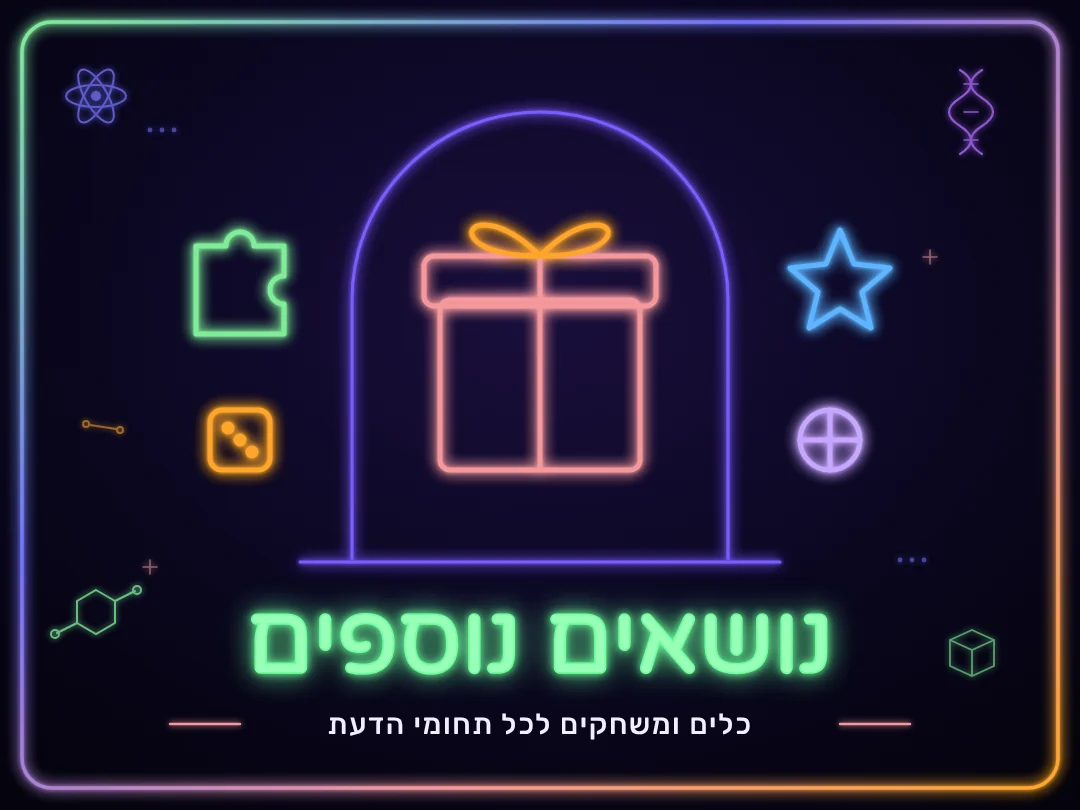
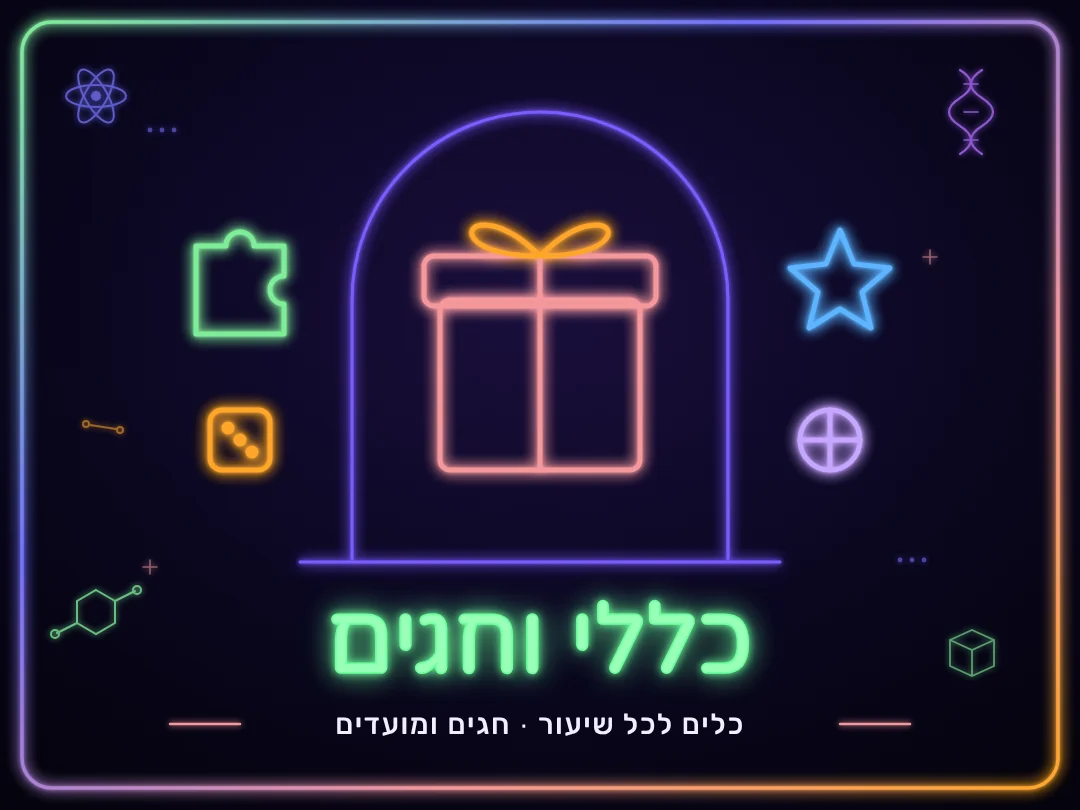
Split more page into holidays and general, add 7 tools; language: add Hanukkah story
Claude-Session: https://claude.ai/code/session_01BjfP7zRyA8853jkZFfmhZH

Changed region(s): [[0.2139, 0.7099, 0.7944, 0.9259]]

diff --git a/more/index.html b/more/index.html
@@ -3,7 +3,7 @@
 <head>
 <meta charset="UTF-8">
 <meta name="viewport" content="width=device-width, initial-scale=1.0">
-<title>נושאים נוספים - נופר גרגרוד</title>
+<title>כללי + חגים ומועדים - נופר גרגרוד</title>
 <link rel="preconnect" href="https://fonts.googleapis.com">
 <link rel="preconnect" href="https://fonts.gstatic.com" crossorigin>
 <link href="https://fonts.googleapis.com/css2?family=Heebo:wght@400;500;700&family=Rubik:wght@300;400;500;600;700&family=Secular+One&display=swap" rel="stylesheet">
@@ -21,10 +21,10 @@
   <!-- ================= HERO ================= -->
   <header class="hero">
     <div class="hero-text">
-      <span class="kicker"><span class="dot"></span>כלים לכל תחומי הדעת</span>
-      <h1>נושאים <span class="grad">נוספים</span></h1>
-      <p class="lead">חדרי בריחה, מחוללי משחקים וכלים כיתתיים שמתאימים לכל מקצוע ולכל רמה.</p>
-      <div class="stats"><div class="stat"><b>6</b><span>כלים ופעילויות</span></div><div class="stat"><b>לכל</b><span>תחומי הדעת</span></div><div class="stat"><b>משחוק</b><span>חדרי בריחה · משחקים</span></div></div>
+      <span class="kicker"><span class="dot"></span>כללי + חגים ומועדים</span>
+      <h1>חגים, מועדים ו<span class="grad">כלים לכל שיעור</span></h1>
+      <p class="lead">פעילויות לחנוכה, לפורים ולט"ו בשבט, לצד חדרי בריחה, מחוללי משחקים וכלים שמתאימים לכל מקצוע.</p>
+      <div class="stats"><div class="stat"><b>12</b><span>כלים ופעילויות</span></div><div class="stat"><b>2</b><span>חגים ומועדים · כללי</span></div><div class="stat"><b>משחוק</b><span>חדרי בריחה · משחקים</span></div></div>
     </div>
     <div class="orbits" aria-hidden="true">
       <div class="ring r1"></div><div class="ring r2"></div><div class="ring r3"></div>
@@ -40,7 +40,7 @@
   </header>
 
   <div class="section-head">
-    <h2>בחרו כלי</h2>
+    <h2>חגים ומועדים</h2>
     <span class="count">6 כלים · לחיצה פותחת בלשונית חדשה</span>
   </div>
 
@@ -51,14 +51,83 @@
         <img class="shot" src="../images/tools/hanukkah.webp" alt="החנוכייה שנסעה בזמן" loading="lazy">
       </div>
       <div class="body">
-        <span class="cat"><span class="cdot"></span>חדר בריחה · א-ט</span>
+        <span class="cat"><span class="cdot"></span>חנוכה · חדר בריחה · א-ט</span>
         <h3>החנוכייה שנסעה בזמן</h3>
         <p>חדר בריחה דיגיטלי לחנוכה: 8 תחנות ו-40 דקות של היסטוריה, מדעים, מתמטיקה, שפה ומורשת. בהתחברות ללא עלות.</p>
         <span class="go"><span class="arrow">←</span>כניסה לכלי<span class="num">01</span></span>
       </div>
     </a>
 
-    <a class="card" style="--accent:#ffa62b" href="https://gemini.google.com/share/b7d344a3b3fe" target="_blank" rel="noopener">
+    <a class="card" style="--accent:#ffa62b" href="https://gemini.google.com/share/ec2380079d1f" target="_blank" rel="noopener">
+      <div class="thumb">
+        <img class="shot" src="../images/tools/purim-wheel.webp" alt="גלגל המצוות של פורים" loading="lazy">
+      </div>
+      <div class="body">
+        <span class="cat"><span class="cdot"></span>פורים · גלגל מזל</span>
+        <h3>גלגל המצוות של פורים</h3>
+        <p>מסובבים את הגלגל ומקבלים משימה על מצוות החג: מגילה, משלוח מנות, מתנות לאביונים ועוד.</p>
+        <span class="go"><span class="arrow">←</span>כניסה לכלי<span class="num">02</span></span>
+      </div>
+    </a>
+
+    <a class="card" style="--accent:#7371fc" href="https://gemini.google.com/share/748d26b0f818" target="_blank" rel="noopener">
+      <div class="thumb">
+        <img class="shot" src="../images/tools/purim-wheel-nikud.webp" alt="גלגל המצוות של פורים - מנוקד" loading="lazy">
+      </div>
+      <div class="body">
+        <span class="cat"><span class="cdot"></span>פורים · גלגל מזל · מנוקד</span>
+        <h3>גלגל המצוות של פורים - מנוקד</h3>
+        <p>אותו גלגל מצוות, בגרסה מנוקדת לקוראים צעירים.</p>
+        <span class="go"><span class="arrow">←</span>כניסה לכלי<span class="num">03</span></span>
+      </div>
+    </a>
+
+    <a class="card" style="--accent:#f4989c" href="https://gemini.google.com/share/aa9dc861220d" target="_blank" rel="noopener">
+      <div class="thumb">
+        <img class="shot" src="../images/tools/tubishvat-whoami.webp" alt="מי אני ואיפה אני - ט&quot;ו בשבט" loading="lazy">
+      </div>
+      <div class="body">
+        <span class="cat"><span class="cdot"></span>ט"ו בשבט · חידות וציור</span>
+        <h3>מי אני ואיפה אני - ט"ו בשבט</h3>
+        <p>12 חידות "מי אני?" על שבעת המינים ופירות הארץ. פותרים את החידה ומוצאים את הציור המתאים.</p>
+        <span class="go"><span class="arrow">←</span>כניסה לכלי<span class="num">04</span></span>
+      </div>
+    </a>
+
+    <a class="card" style="--accent:#80ed99" href="https://gemini.google.com/share/fcfc5f14c8ca" target="_blank" rel="noopener">
+      <div class="thumb">
+        <img class="shot" src="../images/tools/tubishvat-draw.webp" alt="לצייר בט&quot;ו בשבט" loading="lazy">
+      </div>
+      <div class="body">
+        <span class="cat"><span class="cdot"></span>ט"ו בשבט · אוצר מילים · מנוקד</span>
+        <h3>לצייר בט"ו בשבט</h3>
+        <p>12 מילים מנוקדות מעולם הצומח: עץ, פרח, עלה, שורש ועוד. מתאימים מילה לציור.</p>
+        <span class="go"><span class="arrow">←</span>כניסה לכלי<span class="num">05</span></span>
+      </div>
+    </a>
+
+    <a class="card" style="--accent:#ffa62b" href="https://gemini.google.com/share/0c721d1126bd" target="_blank" rel="noopener">
+      <div class="thumb">
+        <img class="shot" src="../images/tools/fruit-wheel.webp" alt="גלגל הפירות לט&quot;ו בשבט" loading="lazy">
+      </div>
+      <div class="body">
+        <span class="cat"><span class="cdot"></span>ט"ו בשבט · גלגל מזל · מנוקד</span>
+        <h3>גלגל הפירות לט"ו בשבט</h3>
+        <p>מסובבים את הגלגל ומקבלים שעשועון על אחד מפירות החג.</p>
+        <span class="go"><span class="arrow">←</span>כניסה לכלי<span class="num">06</span></span>
+      </div>
+    </a>
+
+  </section>
+
+  <div class="section-head" style="margin-top:56px">
+    <h2>כללי</h2>
+    <span class="count">6 כלים · לחיצה פותחת בלשונית חדשה</span>
+  </div>
+
+  <section class="grid">
+
+    <a class="card" style="--accent:#7371fc" href="https://gemini.google.com/share/b7d344a3b3fe" target="_blank" rel="noopener">
       <div class="thumb">
         <img class="shot" src="../images/tools/scratch.webp" alt="כרטיסי גירוד אינטראקטיביים" loading="lazy">
       </div>
@@ -66,11 +135,11 @@
         <span class="cat"><span class="cdot"></span>מחולל משחקים · לכל הרמות</span>
         <h3>כרטיסי גירוד אינטראקטיביים</h3>
         <p>12 כרטיסי גירוד עם שאלות חזרה. עורכים את השאלות ויוצרים פעילות מותאמת לתלמידים שלכם.</p>
-        <span class="go"><span class="arrow">←</span>כניסה לכלי<span class="num">02</span></span>
+        <span class="go"><span class="arrow">←</span>כניסה לכלי<span class="num">07</span></span>
       </div>
     </a>
 
-    <a class="card" style="--accent:#7371fc" href="https://nofarg8.github.io/Pass-the-parcel/" target="_blank" rel="noopener">
+    <a class="card" style="--accent:#f4989c" href="https://nofarg8.github.io/Pass-the-parcel/" target="_blank" rel="noopener">
       <div class="thumb">
         <img class="shot" src="../images/tools/pass-the-parcel.webp" alt="חבילה עוברת דיגיטלית" loading="lazy">
       </div>
@@ -78,23 +147,35 @@
         <span class="cat"><span class="cdot"></span>משחק כיתתי · לכל הרמות</span>
         <h3>חבילה עוברת דיגיטלית</h3>
         <p>מסובבים את החבילה, מקבלים משימות כיפיות, ומי שפותח אחרון מקבל מתנה. אפשר לערוך את השאלות.</p>
-        <span class="go"><span class="arrow">←</span>כניסה לכלי<span class="num">03</span></span>
+        <span class="go"><span class="arrow">←</span>כניסה לכלי<span class="num">08</span></span>
       </div>
     </a>
 
-    <a class="card" style="--accent:#f4989c" href="https://ai.studio/apps/777307b0-0926-4e9c-a0f4-ecef8b50a4e6" target="_blank" rel="noopener">
+    <a class="card" style="--accent:#80ed99" href="https://ai.studio/apps/777307b0-0926-4e9c-a0f4-ecef8b50a4e6" target="_blank" rel="noopener">
       <div class="thumb">
         <img class="shot" src="../images/tools/tanach.webp" alt="סיפורי התנ&quot;ך" loading="lazy">
       </div>
       <div class="body">
-        <span class="cat"><span class="cdot"></span>פלטפורמת משחקים · א-יב</span>
+        <span class="cat"><span class="cdot"></span>תנ"ך · פלטפורמת משחקים · א-יב</span>
         <h3>סיפורי התנ"ך</h3>
-        <p>חידון בכמה רמות, שעשועוני מילים ומדרש תמונה - משחקים להפוגה ולשיעורים מתוקשבים.</p>
-        <span class="go"><span class="arrow">←</span>כניסה לכלי<span class="num">04</span></span>
+        <p>חידון בכמה רמות, שעשועוני מילים ומדרש תמונה - פרשנות חזותית מודרנית לסיפורי התנ"ך.</p>
+        <span class="go"><span class="arrow">←</span>כניסה לכלי<span class="num">09</span></span>
       </div>
     </a>
 
-    <a class="card" style="--accent:#80ed99" href="https://nofarg8.github.io/hardwar-nofar/" target="_blank" rel="noopener">
+    <a class="card" style="--accent:#ffa62b" href="https://gemini.google.com/share/ae3e48ffd03e" target="_blank" rel="noopener">
+      <div class="thumb">
+        <img class="shot" src="../images/tools/spies.webp" alt="איזה מרגל/ת אני?" loading="lazy">
+      </div>
+      <div class="body">
+        <span class="cat"><span class="cdot"></span>תנ"ך · ספר במדבר</span>
+        <h3>איזה מרגל/ת אני?</h3>
+        <p>סיפור המרגלים במדבר: מכירים את הדמויות, בוחרים עם מי מזדהים, ויוצרים מדרש תמונה.</p>
+        <span class="go"><span class="arrow">←</span>כניסה לכלי<span class="num">10</span></span>
+      </div>
+    </a>
+
+    <a class="card" style="--accent:#7371fc" href="https://nofarg8.github.io/hardwar-nofar/" target="_blank" rel="noopener">
       <div class="thumb">
         <img class="shot" src="../images/tools/code-red.webp" alt="קוד אדום: שרת הבקרה" loading="lazy">
       </div>
@@ -102,11 +183,11 @@
         <span class="cat"><span class="cdot"></span>חדר בריחה · חומרה</span>
         <h3>קוד אדום: שרת הבקרה</h3>
         <p>העיר תחת מתקפת סייבר! מאתחלים את שרת הבקרה לפני קריסת המערכות. חדר בריחה בנושא חומרת המחשב.</p>
-        <span class="go"><span class="arrow">←</span>כניסה לכלי<span class="num">05</span></span>
+        <span class="go"><span class="arrow">←</span>כניסה לכלי<span class="num">11</span></span>
       </div>
     </a>
 
-    <a class="card" style="--accent:#ffa62b" href="https://claude.ai/artifact/G7sjaNNJ6AWAVhXLPFyVbz" target="_blank" rel="noopener">
+    <a class="card" style="--accent:#f4989c" href="https://claude.ai/artifact/G7sjaNNJ6AWAVhXLPFyVbz" target="_blank" rel="noopener">
       <div class="thumb">
         <img class="shot" src="../images/tools/fashion-ad.webp" alt="סדנת פרסומת אופנה" loading="lazy">
       </div>
@@ -114,7 +195,7 @@
         <span class="cat"><span class="cdot"></span>סדנה יצירתית</span>
         <h3>סדנת פרסומת אופנה</h3>
         <p>סדנה מודרכת ב-8 שלבים ליצירת פרסומת אופנה - כתיבה, שכנוע ויצירתיות, צעד אחר צעד.</p>
-        <span class="go"><span class="arrow">←</span>כניסה לכלי<span class="num">06</span></span>
+        <span class="go"><span class="arrow">←</span>כניסה לכלי<span class="num">12</span></span>
       </div>
     </a>
 

diff --git a/language/index.html b/language/index.html
@@ -24,7 +24,7 @@
       <span class="kicker"><span class="dot"></span>כלי הוראה חווייתיים לשפה</span>
       <h1>עולם ה<span class="grad">שפה</span> החווייתי</h1>
       <p class="lead">כלים, משחקים ופעילויות לאוצר מילים, כתיב, שורשים והבנה. מתאימים לכל שכבות הגיל, א-יב.</p>
-      <div class="stats"><div class="stat"><b>9</b><span>כלים ופעילויות</span></div><div class="stat"><b>א-יב</b><span>לכל השכבות</span></div><div class="stat"><b>שפה</b><span>משחק · חקר · יצירה</span></div></div>
+      <div class="stats"><div class="stat"><b>10</b><span>כלים ופעילויות</span></div><div class="stat"><b>א-יב</b><span>לכל השכבות</span></div><div class="stat"><b>שפה</b><span>משחק · חקר · יצירה</span></div></div>
     </div>
     <div class="orbits" aria-hidden="true">
       <div class="ring r1"></div><div class="ring r2"></div><div class="ring r3"></div>
@@ -41,7 +41,7 @@
 
   <div class="section-head">
     <h2>בחרו כלי</h2>
-    <span class="count">9 כלים · לחיצה פותחת בלשונית חדשה</span>
+    <span class="count">10 כלים · לחיצה פותחת בלשונית חדשה</span>
   </div>
 
   <section class="grid" id="grid">
@@ -151,6 +151,18 @@
         <h3>סדנת פרסומת אופנה</h3>
         <p>סדנה מודרכת ב-8 שלבים ליצירת פרסומת אופנה - כתיבה, שכנוע ויצירתיות, צעד אחר צעד.</p>
         <span class="go"><span class="arrow">←</span>כניסה לכלי<span class="num">09</span></span>
+      </div>
+    </a>
+
+    <a class="card" style="--accent:#ffa62b" href="https://gemini.google.com/share/4082c4af444d" target="_blank" rel="noopener">
+      <div class="thumb">
+        <img class="shot" src="../images/tools/hanukkah-story.webp" alt="הנר השקוף של נופר" loading="lazy">
+      </div>
+      <div class="body">
+        <span class="cat"><span class="cdot"></span>הכתבה וסיפור · מנוקד</span>
+        <h3>הנר השקוף של נופר</h3>
+        <p>סיפור מנוקד לחנוכה עם הקראה, כבסיס להכתבה ולחידון. מדפדפים, מקשיבים וקוראים יחד.</p>
+        <span class="go"><span class="arrow">←</span>כניסה לכלי<span class="num">10</span></span>
       </div>
     </a>
 

diff --git a/hub/index.html b/hub/index.html
@@ -4,10 +4,10 @@
 <meta charset="UTF-8">
 <meta name="viewport" content="width=device-width, initial-scale=1.0">
 <title>תרגולים פתוחים - נופר גרגרוד</title>
-<meta name="description" content="משחקים, סימולציות, חדרי בריחה ולומדות אינטראקטיביות במדעים, מתמטיקה, שפה ועוד - במתנה, ללא עלות.">
+<meta name="description" content="משחקים, סימולציות, חדרי בריחה ולומדות אינטראקטיביות במדעים, מתמטיקה, שפה, חגים ומועדים ועוד - במתנה, ללא עלות.">
 <meta property="og:type" content="website">
 <meta property="og:title" content="שחקו, חקרו וגלו - תרגולים חווייתיים במתנה | נופר גרגרוד">
-<meta property="og:description" content="משחקים, סימולציות וחדרי בריחה לכיתה במדעים, מתמטיקה, שפה ועוד. הכול במתנה, ללא עלות.">
+<meta property="og:description" content="משחקים, סימולציות וחדרי בריחה לכיתה במדעים, מתמטיקה, שפה, חגים ומועדים ועוד. הכול במתנה, ללא עלות.">
 <meta property="og:image" content="https://nofarg8.github.io/science-4U/images/og-open-practices.jpg">
 <meta property="og:image:width" content="1200">
 <meta property="og:image:height" content="630">
@@ -93,12 +93,12 @@
 
     <a class="card" style="--accent:#f4989c" href="https://www.sciencedu.online/more-topics" target="_top" rel="noopener">
       <div class="thumb">
-        <img class="shot" src="../images/h4.webp" alt="נושאים נוספים" loading="lazy">
+        <img class="shot" src="../images/h4.webp" alt="כללי + חגים ומועדים" loading="lazy">
       </div>
       <div class="body">
         <span class="cat"><span class="cdot"></span>לכל תחומי הדעת</span>
-        <h3>נושאים נוספים</h3>
-        <p>חדרי בריחה, מחוללי משחקים וכלים שמתאימים לכל מקצוע ולכל כיתה.</p>
+        <h3>כללי + חגים ומועדים</h3>
+        <p>פעילויות לחגים ולמועדים, חדרי בריחה, מחוללי משחקים וכלים לכל מקצוע.</p>
         <span class="go"><span class="arrow">←</span>לכל הכלים<span class="num">04</span></span>
       </div>
     </a>
